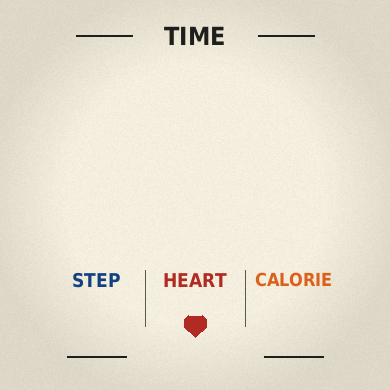
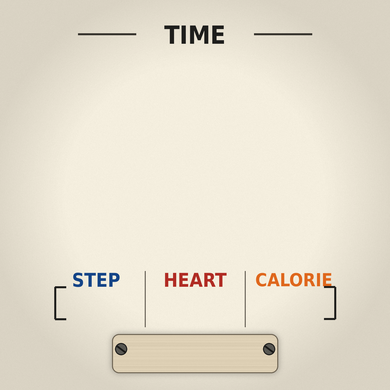
ArtPass1

diff --git a/README.md b/README.md
@@ -1,28 +1,27 @@
-# FlipGauge165 – Full UI Implementation
+# FlipGauge165 – Premium Art Pass 1
 
-This package changes the rendering strategy:
-
-- one static 390×390 background asset
-- one complete flip-clock chassis
-- one complete battery-instrument chassis
-- only digits, seconds, battery segments and live values are drawn dynamically
+This package upgrades the visual assets using 4× master artwork and high-quality downsampling to 390×390.
 
 ## Replace/copy
 
-1. Replace `source/Renderer.mc`.
-2. Copy `resources/assets/fullui/`.
-3. Copy `resources/drawables/fullui_assets.xml`.
+1. Replace `source/Renderer.mc`
+2. Replace `resources/drawables/fullui_assets.xml`
+3. Replace `resources/assets/fullui/`
+4. Copy `design/fullui_4x/` into the repository
 
-The previous `flip_assets.xml`, `resources/assets/flip/` and `resources/assets/gauge/`
-may remain temporarily, but are no longer used by this renderer.
+## Improvements
 
-## Dynamic values
-
-- time and seconds
+- more realistic ivory paper texture and vignette
+- brushed-metal clock chassis
+- refined flip panels and hinges
+- refined red seconds module
+- premium battery instrument
+- 4× master assets for future revisions
+- low-battery warning colors
 - battery percentage
-- steps
-- current heart rate
-- calories
-- date
+- dedicated AOD background asset
+- heart icon integrated into the statistics area
 
-The simulator can show zero for activity values until test data is configured.
+## Important
+
+The `drawAod()` method is included, but the watch-face view must call it during low-power rendering before AOD is fully active.
